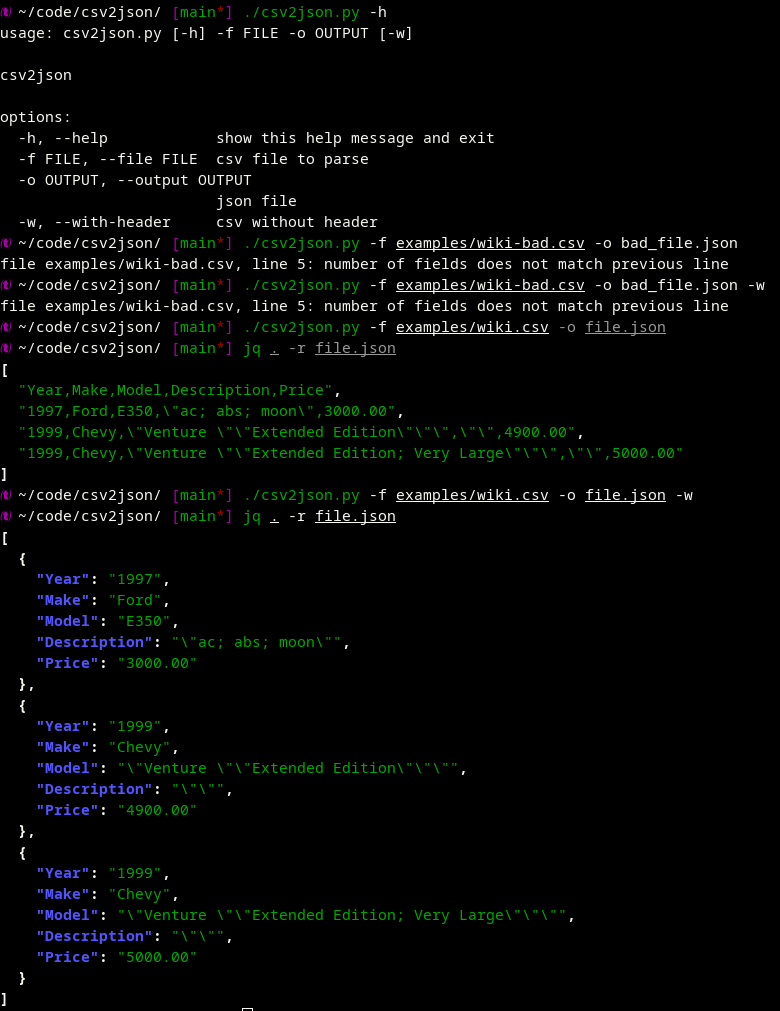
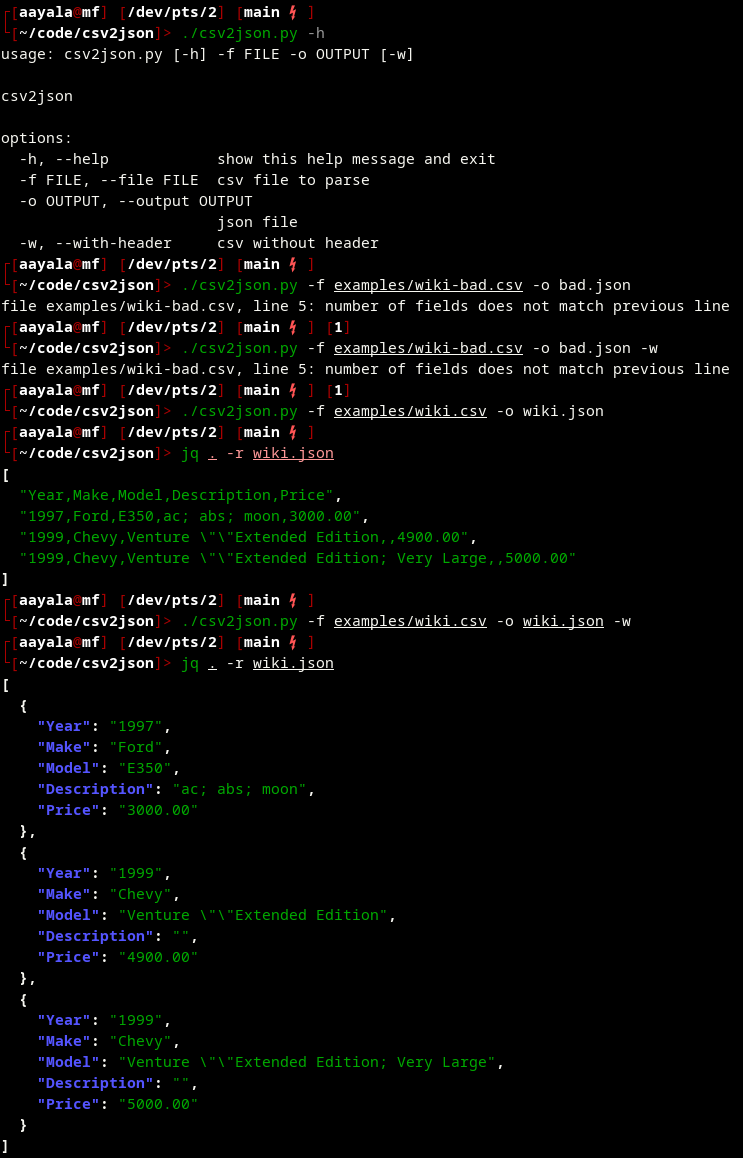
removing extra quotes in fields of the json object

diff --git a/csv2json.py b/csv2json.py
@@ -37,8 +37,10 @@ def main():
                 if '"' in line:
                     line2 = re.sub(r'("[^"]*")', lambda x: x.group(0).replace(',', ';'), line )
                     rows = line2.strip().split(",")
+                    rows = [r.strip('"') for r in rows]
                 else:
                     rows = line.strip().split(",")
+                    rows = [r.strip('"') for r in rows]
                 if header:
                     obj_lst.append(dict(map(lambda i,j : (i,j), fields,rows)))
                 else:
